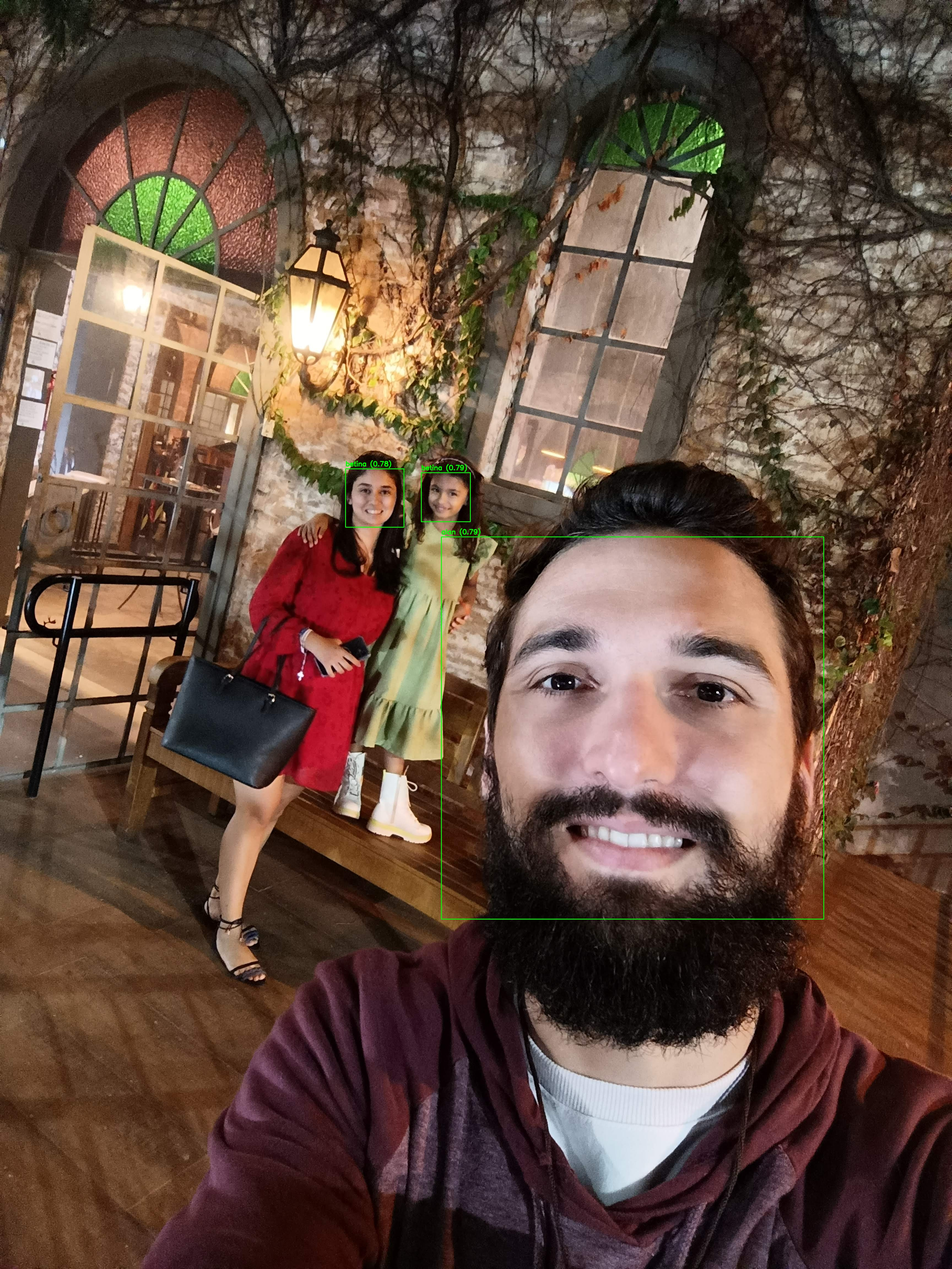
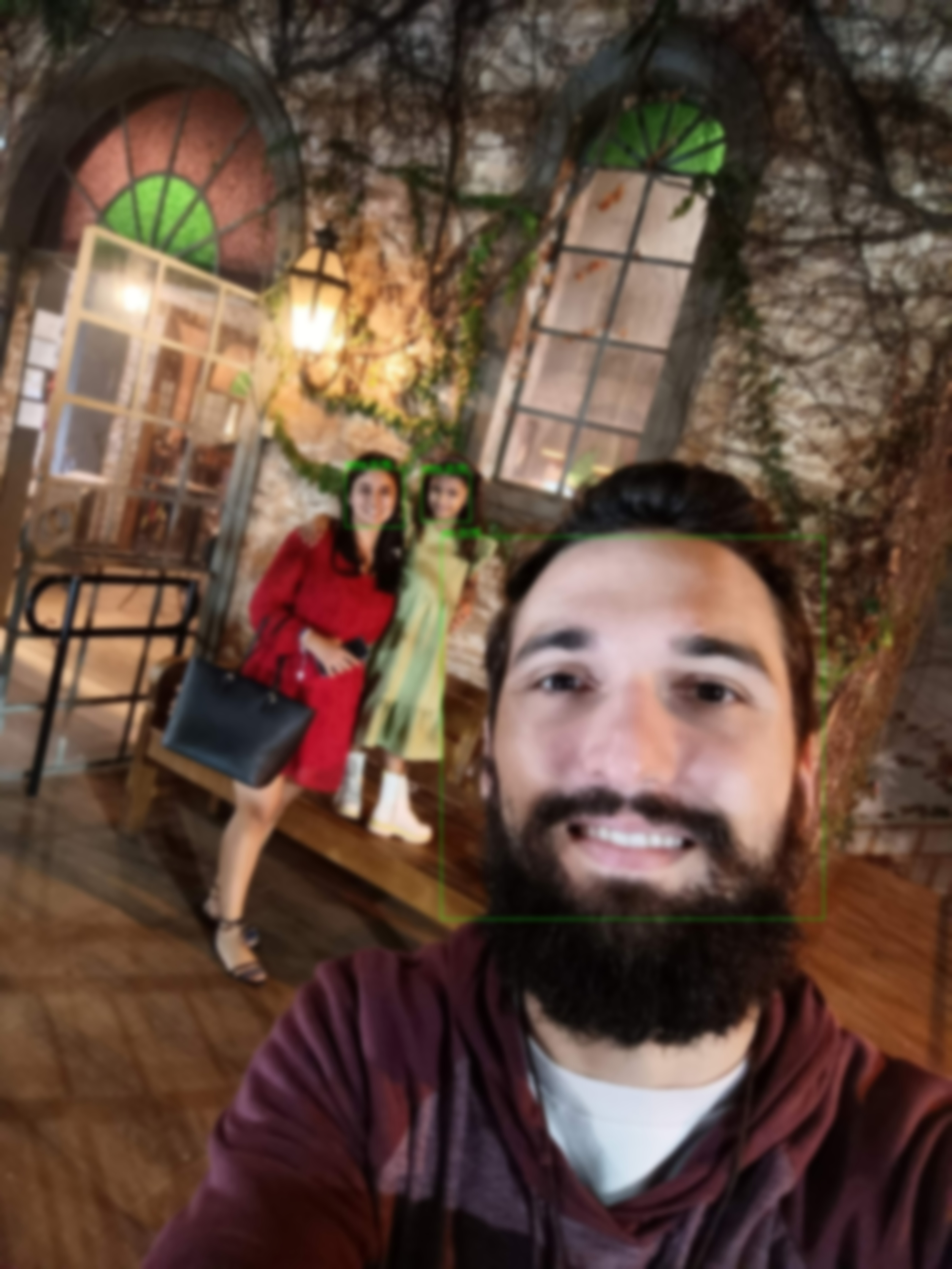
blur

diff --git a/blur.py b/blur.py
@@ -1,0 +1,28 @@
+import cv2
+import os
+
+def aplicar_blur(imagem, kernel_size=5):
+    """
+    Aplica blur (Gaussian Blur) em uma imagem.
+
+    Args:
+        imagem: numpy array (imagem BGR ou RGB)
+        kernel_size: tamanho do kernel (ímpar: 3,5,7...)
+
+    Returns:
+        imagem com blur
+    """
+    if kernel_size % 2 == 0:
+        kernel_size += 1  # garantir ímpar
+
+    blur = cv2.GaussianBlur(imagem, (kernel_size, kernel_size), 0)
+    return blur
+
+def blur_img(path):
+    img = cv2.imread(path)
+    img_blur = aplicar_blur(img, 10)
+
+    # salvar
+    cv2.imwrite("" + path, img_blur)
+
+blur_img("assets/detection.png")

diff --git a/README.MD b/README.MD
@@ -562,3 +562,5 @@ Ainda assim foi feito um teste de detecção em tempo real utilizando o `detecti
 detectar e classificar as faces com algumas modificações para mostrar um rotulo mais assertivo.
 
 ![](./assets/detection.png)
+
+PS: As imagens de rosto foram aplicadas blur.
